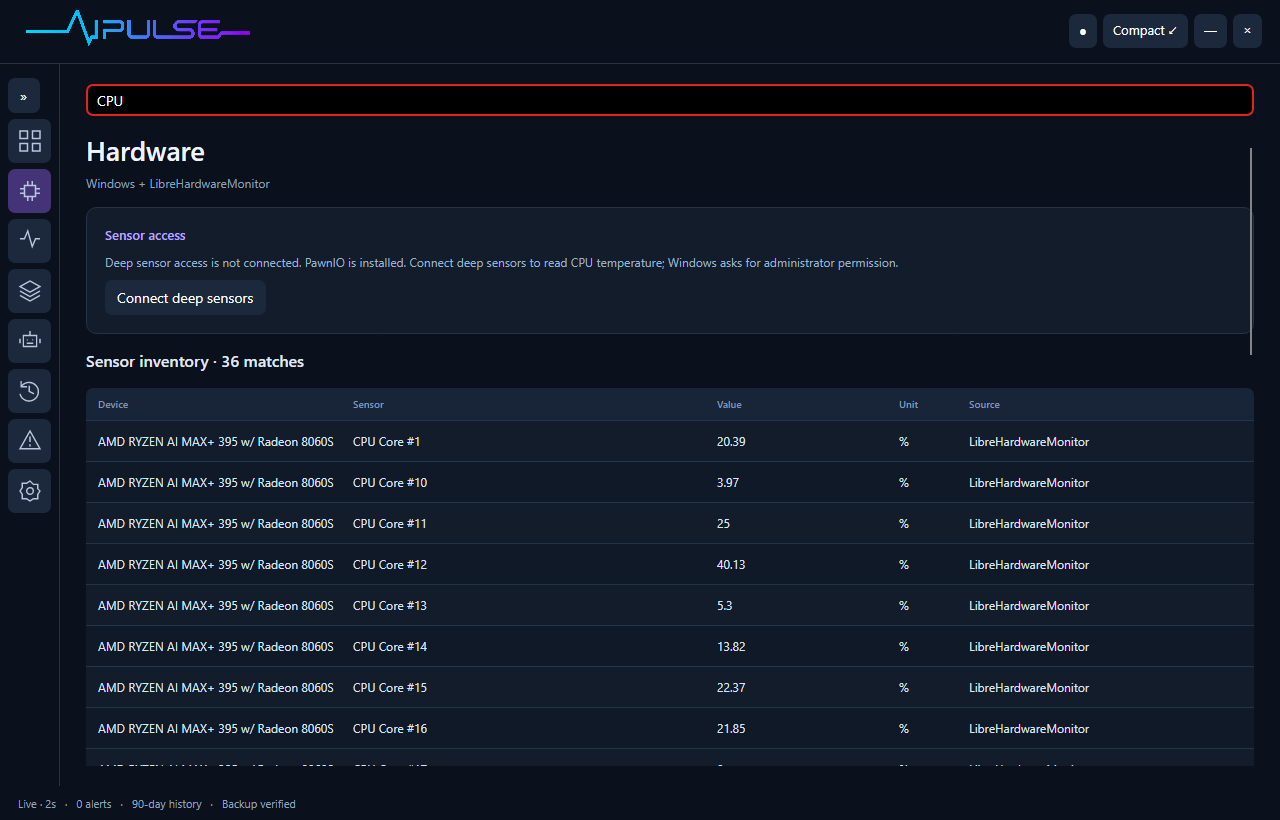
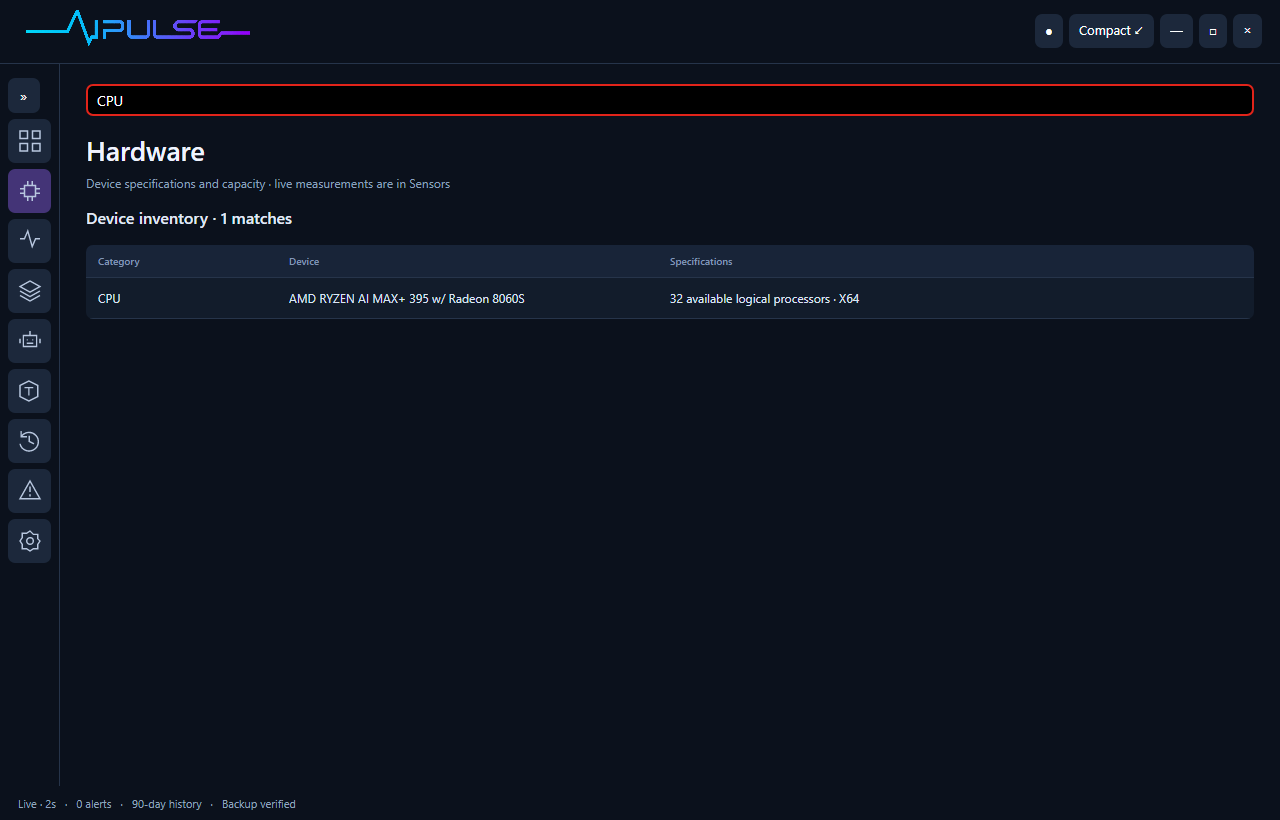
Separate hardware and sensors, add detailed token accounting dashboard

diff --git a/src/AiPulse/MainWindow.cs b/src/AiPulse/MainWindow.cs
@@ -119,23 +119,23 @@ public sealed partial class MainWindow : Window
                 bool collapsed=service.Settings.SidebarCollapsed;
                 var layout=new Grid{ColumnDefinitions=new ColumnDefinitions(collapsed?"60,*":"174,*")};var nav=new StackPanel{Spacing=6,Margin=new Thickness(8,14)};
                 var collapse=Btn(collapsed?"»":"«  Collapse menu");ToolTip.SetTip(collapse,collapsed?"Expand menu":"Collapse menu");Avalonia.Automation.AutomationProperties.SetName(collapse,collapsed?"Expand menu":"Collapse menu");collapse.Click+=(_,_)=>{service.Settings.SidebarCollapsed=!collapsed;Paths.Save(service.Settings);layoutPage=null;RenderBody();};nav.Children.Add(collapse);
-                foreach(var item in new[]{"Overview","Hardware","Sensors","Models","Agents","History","Alerts","Settings"})
+                foreach(var item in new[]{"Overview","Hardware","Sensors","Models","Agents","Token","History","Alerts","Settings"})
                 {
                     var contents=new StackPanel{Orientation=Orientation.Horizontal,Spacing=12};contents.Children.Add(NavIcon(item));if(!collapsed)contents.Children.Add(Text(item,13));
                     var b=new Button{Content=contents,HorizontalAlignment=HorizontalAlignment.Stretch,HorizontalContentAlignment=HorizontalAlignment.Left,Padding=new Thickness(12,12),Cursor=new Cursor(StandardCursorType.Hand)};
-                    ToolTip.SetTip(b,item);Avalonia.Automation.AutomationProperties.SetName(b,item);if(item==page)b.Background=Brush.Parse("#443477");b.Click+=(_,_)=>{page=item;scroller=null;RenderBody();};nav.Children.Add(b);
+                    ToolTip.SetTip(b,item);Avalonia.Automation.AutomationProperties.SetName(b,item);if(item==page)b.Background=Brush.Parse("#443477");b.Click+=(_,_)=>{if(page==item)return;page=item;scroller=null;layoutPage=null;RenderBody();};nav.Children.Add(b);
                 }
                 if(!collapsed){var host=Text("This PC\n"+(OperatingSystem.IsWindows()?"Windows":"Ubuntu / Linux")+" · v0.2.0",11,"#7f93af");host.Margin=new Thickness(12,26,0,0);nav.Children.Add(host);}
                 layout.Children.Add(new Border{Child=new ScrollViewer{Content=nav},BorderBrush=Line,BorderThickness=new Thickness(0,0,1,0)});
                 var main=new Grid{RowDefinitions=new RowDefinitions("Auto,*"),Margin=new Thickness(26,20)};
                 if(page is "Hardware" or "Sensors" or "Agents")
                 {
-                    var search=new TextBox{Text=Query,PlaceholderText=page=="Agents"?"Search source, model, session or status…":"Search device, sensor, source or process…",Margin=new Thickness(0,0,0,16)};
+                    var search=new TextBox{Text=Query,PlaceholderText=page=="Agents"?"Search source, model, session or status…":page=="Hardware"?"Search hardware, device or specification…":"Search device, sensor, unit, source or process…",Margin=new Thickness(0,0,0,16)};
                     Avalonia.Automation.AutomationProperties.SetName(search,"Search "+page);search.TextChanged+=(_,_)=>{searches[page]=search.Text??"";if(scroller!=null)scroller.Offset=default;RenderBody();};main.Children.Add(search);
                 }
                 scroller=new ScrollViewer{HorizontalScrollBarVisibility=ScrollBarVisibility.Disabled};Grid.SetRow(scroller,1);main.Children.Add(scroller);Grid.SetColumn(main,1);layout.Children.Add(main);body.Content=layout;layoutPage=page;
             }
-            scroller!.Content=page switch{"Overview"=>Overview(),"Hardware"=>HardwarePage(),"Sensors"=>HardwarePage(true),"Models"=>ModelsPage(),"Agents"=>AgentsPage(),"History"=>HistoryPage(),"Alerts"=>AlertsPage(),_=>SettingsPage()};scroller.Offset=offset;
+            scroller!.Content=page switch{"Overview"=>Overview(),"Hardware"=>HardwarePage(),"Sensors"=>SensorsPage(),"Models"=>ModelsPage(),"Agents"=>AgentsPage(),"Token"=>TokenPage(),"History"=>HistoryPage(),"Alerts"=>AlertsPage(),_=>SettingsPage()};scroller.Offset=offset;
         }finally{rebuilding=false;}
     }
     static Control NavIcon(string name)
@@ -146,6 +146,7 @@ public sealed partial class MainWindow : Window
             "Sensors"=>"M1,10 H5 L8,3 L12,17 L15,10 H19",
             "Models"=>"M10,1 L19,6 L10,11 L1,6 Z M1,10 L10,15 L19,10 M1,14 L10,19 L19,14",
             "Agents"=>"M4,6 H16 V16 H4 Z M10,2 V6 M7,10 H8 M12,10 H13 M7,13 H13 M1,9 V13 M19,9 V13",
+            "Token"=>"M10,1 L18,5 V15 L10,19 L2,15 V5 Z M6,7 H14 M10,7 V14",
             "History"=>"M3,6 A8,8 0 1 1 2,12 M3,1 V6 H8 M10,5 V10 L14,12",
             "Alerts"=>"M10,2 L19,18 H1 Z M10,7 V12 M10,14 V16",
             _=>"M10,1 L13,4 L17,4 L17,8 L19,10 L17,13 L17,17 L13,17 L10,19 L7,17 L3,17 L3,13 L1,10 L3,7 L3,3 L7,3 Z M10,7 A3,3 0 1 0 10,13 A3,3 0 1 0 10,7"};
@@ -221,14 +222,23 @@ public sealed partial class MainWindow : Window
         }
         return Card(content);
     }
-    Control HardwarePage(bool sensorsOnly=false)
+    Control HardwarePage()
     {
-        var stack=new StackPanel{Spacing=16};stack.Children.Add(Heading(sensorsOnly?"Sensors":"Hardware",service.Health));stack.Children.Add(SensorCard());
+        var stack=new StackPanel{Spacing=16};stack.Children.Add(Heading("Hardware","Device specifications and capacity · live measurements are in Sensors"));
+        var inventory=(service.Hardware?.Inventory??[]).Where(r=>Matches(r.Category,r.Name,r.Details)).ToList();
+        stack.Children.Add(Text("Device inventory · "+inventory.Count+" matches",16,null,true));
+        stack.Children.Add(Table(["Category","Device","Specifications"],inventory.Select(r=>new[]{r.Category,r.Name,r.Details}),"*,2*,3*"));
+        if(inventory.Count==0)stack.Children.Add(Text(service.Hardware?.Inventory.Count>0?"No hardware matches your search.":"Discovering hardware…",13,"#8da1bd"));
+        return stack;
+    }
+    Control SensorsPage()
+    {
+        var stack=new StackPanel{Spacing=16};stack.Children.Add(Heading("Sensors","Live temperatures, utilization, power, clocks, fans and resource activity · "+service.Health));stack.Children.Add(SensorCard());
         var readings=service.Readings.Where(r=>Matches(r.Device,r.Name,r.Source,r.Unit)).OrderBy(r=>r.Device).ThenBy(r=>r.Name).ToList();
         stack.Children.Add(Text("Sensor inventory · "+readings.Count+" matches",16,null,true));
         stack.Children.Add(Table(["Device","Sensor","Value","Unit","Source"],readings.Select(r=>new[]{r.Device,r.Name,r.Value?.ToString("0.##")??"Unavailable",r.Unit,r.Source}),"1.4*,2*,*,70,1.5*"));
         if(readings.Count==0)stack.Children.Add(Text("No sensors match your search.",13,"#8da1bd"));
-        if(!sensorsOnly){stack.Children.Add(Text("Top processes",16,null,true));stack.Children.Add(Table(["Process","PID","CPU (host %)","Working set MiB"],(service.Hardware?.Processes??[]).Where(p=>Matches(p.Name,p.Id.ToString())).Select(p=>new[]{p.Name,p.Id.ToString(),p.Cpu.ToString("0.0"),p.MemoryMiB.ToString("N0")}),"2*,*,*,*"));}return stack;
+        stack.Children.Add(Text("Live process activity",16,null,true));stack.Children.Add(Table(["Process","PID","CPU (host %)","Working set MiB"],(service.Hardware?.Processes??[]).Where(p=>Matches(p.Name,p.Id.ToString())).Select(p=>new[]{p.Name,p.Id.ToString(),p.Cpu.ToString("0.0"),p.MemoryMiB.ToString("N0")}),"2*,*,*,*"));return stack;
     }
     Control ModelsPage()
     {
@@ -312,7 +322,7 @@ public sealed partial class MainWindow : Window
     static Button Btn(string label)=>new(){Content=label,Cursor=new Cursor(StandardCursorType.Hand)};
     static Control Heading(string title,string sub){var s=new StackPanel{Spacing=7};s.Children.Add(Text(title,27,"#f0f4ff",true));s.Children.Add(Text(sub,12,"#8ba0bd"));return s;}
     static Border Card(Control child)=>new(){Child=child,Padding=new Thickness(18),Background=Panel,CornerRadius=new CornerRadius(10),BorderBrush=Line,BorderThickness=new Thickness(1)};
-    static Border Metric(string label,string value,string caption){var s=new StackPanel{Spacing=10};s.Children.Add(Text(label,10,"#a1b4ce"));s.Children.Add(Text(value,29,"#e9f0ff",true));s.Children.Add(Text(caption,10,"#7f93af"));return Card(s);}
+    static Border Metric(string label,string value,string caption){var s=new StackPanel{Spacing=10};s.Children.Add(Text(label,15,"#e1e9f7",true));s.Children.Add(Text(value,29,"#e9f0ff",true));s.Children.Add(Text(caption,10,"#7f93af"));return Card(s);}
     static Control Pair(string label,string value){var grid=new Grid{ColumnDefinitions=new ColumnDefinitions("*,Auto")};grid.Children.Add(Text(label,12,"#9eb1ca"));var v=Text(value,16,"#72d4e8",true);Grid.SetColumn(v,1);grid.Children.Add(v);return grid;}
     static Control Message(string title,string detail){var s=new StackPanel{Spacing=6};s.Children.Add(Text(title,13,"#bba3ff",true));s.Children.Add(Text(detail,12,"#9eb1ca"));return Card(s);}
     static Control Table(string[] headers,IEnumerable<string[]> data,string columns)

diff --git a/src/AiPulse/UiChecks.cs b/src/AiPulse/UiChecks.cs
@@ -39,16 +39,27 @@ public sealed partial class MainWindow
             await Click("Restore window");Check(WindowState==WindowState.Normal&&ButtonNamed("Maximize window")!=null,"Restore returns to a normal resizable window");
             await Click("Maximize window");await Click("Show compact dashboard");Check(service.Settings.Compact&&WindowState==WindowState.Normal&&!CanMaximize,"Compact mode leaves maximization and remains a small widget");
             await Click("Expand dashboard");
+            await Click("Overview");await Click("Overview");Check(scroller!=null&&page=="Overview","Clicking the current navigation tab repeatedly preserves its content");
+            Check(this.GetVisualDescendants().OfType<TextBlock>().First(t=>t.Text=="GPU TEMPERATURE").FontSize==15,"Overview metric headings match the other card headings");
             await Shot("overview-expanded");
             await Click("Collapse menu");Check(service.Settings.SidebarCollapsed&&ButtonNamed("Expand menu")!=null,"Sidebar collapses to named icon buttons");await Shot("sidebar-collapsed");
             await Click("Hardware");var search=this.GetVisualDescendants().OfType<TextBox>().Single();search.Focus();search.Text="not-a-real-sensor-xyz";await Task.Delay(150);Refresh();await Task.Delay(150);
             Check(ReferenceEquals(search,this.GetVisualDescendants().OfType<TextBox>().Single())&&search.IsFocused&&search.Text=="not-a-real-sensor-xyz","Search text and keyboard focus survive live refresh");
-            Check(this.GetVisualDescendants().OfType<TextBlock>().Any(t=>t.Text=="No sensors match your search."),"Unmatched sensor search has an explicit empty state");
-            search.Text="CPU";await Shot("hardware-search");
+            Check(this.GetVisualDescendants().OfType<TextBlock>().Any(t=>t.Text=="No hardware matches your search."),"Unmatched hardware search has an explicit empty state");
+            search.Text="CPU";await Click("Hardware");Check(!this.GetVisualDescendants().OfType<TextBlock>().Any(t=>t.Text=="Sensor access"||t.Text=="Live process activity"),"Hardware shows specifications without sensor readings or process activity");await Shot("hardware-search");
             await Click("Sensors");Check(this.GetVisualDescendants().OfType<TextBox>().Single().Text=="","Sensors has an independent search field");
+            await Click("Sensors");Check(this.GetVisualDescendants().OfType<TextBlock>().Any(t=>t.Text=="Sensor access")&&this.GetVisualDescendants().OfType<TextBlock>().Any(t=>t.Text=="Live process activity"),"Sensors owns live readings, permission status and process activity");
+            this.GetVisualDescendants().OfType<TextBox>().Single().Text="no-sensor-xyz";await Task.Delay(150);Refresh();await Task.Delay(150);Check(this.GetVisualDescendants().OfType<TextBlock>().Any(t=>t.Text=="No sensors match your search."),"Sensor search has an explicit empty state");
+            this.GetVisualDescendants().OfType<TextBox>().Single().Text="CPU";await Shot("sensors-search");
             await Click("Hardware");Check(this.GetVisualDescendants().OfType<TextBox>().Single().Text=="CPU","Search survives tab changes");
             await Click("Agents");Check(AutomationProperties.GetName(this.GetVisualDescendants().OfType<TextBox>().Single())=="Search Agents","Agents exposes searchable retained session metadata");
             await Click("Expand menu");Check(!service.Settings.SidebarCollapsed,"Sidebar expands back to icon and label navigation");
+            service.Store.PutUsage(new("fixture-tokens-ollama","Ollama","fixture-local-model","",J.Now,1200,300,200,0,0,null,null,"Completed"));
+            service.Store.PutUsage(new("fixture-tokens-codex","Codex","fixture-code-model","fixture-session",J.Now,900,200,600,0,80,null,null,"Reported"));
+            service.Store.PutUsage(new("fixture-tokens-claude","Claude Code","fixture-claude-model","fixture-session-2",J.Now,700,150,300,100,25,null,null,"Reported"));
+            await Click("Token");await Click("Token");Check(this.GetVisualDescendants().OfType<TextBlock>().Any(t=>t.Text=="On-prem models")&&this.GetVisualDescendants().OfType<TextBlock>().Any(t=>t.Text=="Tools & other usage"),"Token separates on-prem models from tools and other usage");
+            Check(this.GetVisualDescendants().OfType<TextBlock>().Any(t=>t.Text=="1,500")&&this.GetVisualDescendants().OfType<TextBlock>().Any(t=>t.Text=="1,950"),"Token displays exact independent totals for both sections");await Shot("token-split");
+            tokenDays=7;RenderBody();await Task.Delay(150);Check(tokenDays==7&&this.GetVisualDescendants().OfType<TextBlock>().Any(t=>t.Text=="Cache write¹"),"Token supports period selection and detailed cache/reasoning columns");
             await Click("History");Check(!this.GetVisualDescendants().OfType<Button>().Any(b=>Equals(b.Content,"365 days")),"Default 90-day history does not offer unavailable year ranges");
             service.Settings.RetentionDays=365;service.Store.RetentionDays=365;RenderBody();await Task.Delay(150);Check(this.GetVisualDescendants().OfType<Button>().Any(b=>Equals(b.Content,"365 days")),"One-year retention enables the 365-day history range");
             await Shot("history-year");
@@ -56,6 +67,6 @@ public sealed partial class MainWindow
             File.WriteAllLines(Path.Combine(Paths.Root,"ui-test-results.txt"),results);
         }
         catch(Exception e){results.Add("FAIL: "+e.Message);File.WriteAllLines(Path.Combine(Paths.Root,"ui-test-results.txt"),results);Environment.ExitCode=1;}
-        finally{Quit();}
+        finally{if(Application.Current is App app){app.Quitting=true;(app.ApplicationLifetime as Avalonia.Controls.ApplicationLifetimes.IClassicDesktopStyleApplicationLifetime)?.Shutdown(Environment.ExitCode);}}
     }
 }

diff --git a/src/AiPulse/TokenPage.cs b/src/AiPulse/TokenPage.cs
@@ -1,0 +1,57 @@
+using Avalonia;
+using Avalonia.Controls;
+using Avalonia.Controls.Primitives;
+using Avalonia.Layout;
+using Avalonia.Media;
+
+namespace AiPulse;
+
+public sealed partial class MainWindow
+{
+    int tokenDays=1;
+    bool tokenExportBusy;
+    string tokenNotice="";
+    Control TokenPage()
+    {
+        var stack=new StackPanel{Spacing=18};
+        stack.Children.Add(Heading("Token","Observed token usage · on-prem models and tools shown separately"));
+        tokenDays=Math.Min(tokenDays,service.Settings.RetentionDays);
+        var periods=new WrapPanel{Orientation=Orientation.Horizontal};
+        foreach(int days in new[]{1,7,30,90,180,365}.Where(d=>d<=service.Settings.RetentionDays).Append(service.Settings.RetentionDays).Distinct().Order())
+        {
+            var b=Btn(days==1?"Last 24 hours":$"{days} days");b.Margin=new Thickness(0,0,8,8);if(days==tokenDays)b.Background=Brush.Parse("#443477");
+            b.Click+=(_,_)=>{tokenDays=days;RenderBody();};periods.Children.Add(b);
+        }
+        stack.Children.Add(periods);
+        var rows=service.Store.TokenBreakdown(J.Now-tokenDays*86400L);
+        var onPrem=rows.Where(r=>r.OnPrem).ToList();var tools=rows.Where(r=>!r.OnPrem).ToList();
+        var summary=new Grid{ColumnDefinitions=new ColumnDefinitions("*,*")};
+        var local=Metric("On-prem · Ollama",onPrem.Sum(r=>r.Total).ToString("N0"),$"Input {onPrem.Sum(r=>r.Input):N0} · output {onPrem.Sum(r=>r.Output):N0}");summary.Children.Add(local);
+        var other=Metric("Tools & other usage",tools.Sum(r=>r.Total).ToString("N0"),$"Input {tools.Sum(r=>r.Input):N0} · output {tools.Sum(r=>r.Output):N0}");other.Margin=new Thickness(12,0,0,0);Grid.SetColumn(other,1);summary.Children.Add(other);stack.Children.Add(summary);
+        stack.Children.Add(TokenSection("On-prem models",onPrem,"Ollama usage observed through the AIPULSE gateway. Direct Ollama calls and discovery-only remote endpoints are not counted."));
+        stack.Children.Add(TokenSection("Tools & other usage",tools,"Codex and Claude Code usage reported in readable local session files. Tool names identify the usage source; they do not prove where the model is hosted."));
+        stack.Children.Add(Message("Reading the split","Input includes cache reads and cache writes. Reasoning is included in output. Total = input + output; do not add the subset columns again. Zero means no tokens recorded for that field, which can also mean the provider did not report it. Records are usage events, not a request count."));
+        stack.Children.Add(Message("Coverage","On-prem and tool totals are independent observations: a tool using a monitored Ollama backend may appear in both, so no combined total is presented. No API billing or desktop subscription allowance is inferred. Claude desktop/Chat/Cowork usage may not be available. Remote k3s discovery alone does not provide token accounting."));
+        var export=Btn(tokenExportBusy?"Exporting…":"Export selected period CSV");export.IsEnabled=!tokenExportBusy;
+        export.Click+=async(_,_)=>
+        {
+            tokenExportBusy=true;long since=J.Now-tokenDays*86400L;RenderBody();
+            try{var file=System.IO.Path.Combine(Paths.Root,"exports","tokens-"+DateTime.Now.ToString("yyyyMMdd-HHmmss")+".csv");await Task.Run(()=>service.Store.ExportUsage(file,since));tokenNotice="Saved "+file;}
+            catch(Exception e){Paths.Log("token-export",e);tokenNotice="Export failed. Check folder access and available disk space.";}
+            finally{tokenExportBusy=false;if(page=="Token")RenderBody();}
+        };
+        stack.Children.Add(export);if(tokenNotice!="")stack.Children.Add(Text(tokenNotice,12,"#59dfae"));return stack;
+    }
+    static Control TokenSection(string title,List<TokenBreakdown> rows,string coverage)
+    {
+        var section=new StackPanel{Spacing=12};section.Children.Add(Text(title,16,null,true));section.Children.Add(Text(coverage,12,"#9eb1ca"));
+        if(rows.Count==0){section.Children.Add(Text("No observed usage in this period.",13,"#8da1bd"));return Card(section);}
+        var totals=new StackPanel{Spacing=7};
+        totals.Children.Add(Text($"Input {rows.Sum(r=>r.Input):N0} · uncached {rows.Sum(r=>r.Uncached):N0} · cache read {rows.Sum(r=>r.Cached):N0} · cache write {rows.Sum(r=>r.CacheWrite):N0}",13));
+        totals.Children.Add(Text($"Output {rows.Sum(r=>r.Output):N0} · reasoning {rows.Sum(r=>r.Reasoning):N0} included · {rows.Sum(r=>r.Records):N0} usage records",13));section.Children.Add(totals);
+        var table=Table(["Source / model","Input","Output","Cache read¹","Cache write¹","Reasoning²","Total"],rows.Select(r=>new[]{r.Source+"\n"+(string.IsNullOrWhiteSpace(r.Model)?"Model not reported":r.Model),r.Input.ToString("N0"),r.Output.ToString("N0"),r.Cached.ToString("N0"),r.CacheWrite.ToString("N0"),r.Reasoning.ToString("N0"),r.Total.ToString("N0")}),"2.2*,*,*,*,*,*,*");
+        table.MinWidth=900;section.Children.Add(new ScrollViewer{Content=table,HorizontalScrollBarVisibility=ScrollBarVisibility.Auto,VerticalScrollBarVisibility=ScrollBarVisibility.Disabled});
+        if(rows.Sum(r=>r.Incomplete)>0)section.Children.Add(Text($"{rows.Sum(r=>r.Incomplete):N0} records have incomplete or unavailable usage. Any reported tokens are included; this is not a complete consumption total.",12,"#e8b65f"));
+        return Card(section);
+    }
+}

diff --git a/src/AiPulse/SelfTests.cs b/src/AiPulse/SelfTests.cs
@@ -22,6 +22,16 @@ public static class SelfTests
                 var backup=db.Backup(Path.Combine(root,"backups"));Storage.VerifyBackup(backup);File.Copy(backup,Path.Combine(root,"restore.db"));using var restored=new Storage(Path.Combine(root,"restore.db"));Check(restored.Totals(now-1).Input==265,"Verified snapshot restores exact token totals");
                 for(int i=0;i<20001;i++)db.PutUsage(new("bulk-"+i,"Test","=unsafe-formula","bulk",now,1,0,0,0,0,null,null,"Completed"));
                 var export=Path.Combine(root,"export.csv");db.ExportUsage(export,now-1);var lines=File.ReadLines(export);Check(lines.Count()==20005&&lines.Any(l=>l.Contains("'=unsafe-formula")),"CSV exports beyond 20,000 records and escapes spreadsheet formulas");
+                var split=db.TokenBreakdown(now-1);Check(split.Sum(r=>r.Input)==db.Totals(now-1).Input&&split.Sum(r=>r.Records)==20004&&split.Single(r=>r.Source=="Test").Input==20001,"Token aggregates cover all records beyond the 20,000-row display limit");
+                var local=split.Single(r=>r.OnPrem);var claude=split.Single(r=>r.Source=="Claude Code");Check(local.Total==120&&claude.Input==65&&claude.Uncached==10&&claude.Cached==50&&claude.CacheWrite==5&&claude.Total==77,"On-prem and tool splits preserve cache subsets without double-counting totals");
+            }
+            using(var tokens=new Storage(Path.Combine(root,"tokens.db")))
+            {
+                long now=J.Now;tokens.PutUsage(new("old-token","Ollama","model","",now-3*86400,100,10,0,0,0,null,null,"Completed"));
+                tokens.PutUsage(new("partial-token","Ollama","model","",now,5,2,0,0,0,null,null,"Cancelled · usage incomplete"));
+                tokens.PutUsage(new("tool-token","Codex","model","session",now,10,8,3,0,4,null,null,"Reported"));
+                var day=tokens.TokenBreakdown(now-86400);Check(day.Single(r=>r.OnPrem).Total==7&&day.Single(r=>r.OnPrem).Incomplete==1&&tokens.TokenBreakdown(now-7*86400).Single(r=>r.OnPrem).Total==117,"Token ranges separate recent history and flag incomplete observations");
+                Check(day.Single(r=>!r.OnPrem).Reasoning==4&&day.Single(r=>!r.OnPrem).Total==18,"Reasoning stays a subset of output and same model names remain separated by source");
             }
             Check(!System.Text.Encoding.UTF8.GetString(File.ReadAllBytes(Path.Combine(root,"test.db"))).Contains("SECRET_PROMPT_SHOULD_NOT_PERSIST"),"Prompt bodies not persisted");
             using(var year=new Storage(Path.Combine(root,"year.db"),365))

diff --git a/src/AiPulse/Storage.cs b/src/AiPulse/Storage.cs
@@ -78,6 +78,19 @@ public sealed class Storage : IDisposable
     {
         lock(gate){using var c=Command("SELECT coalesce(sum(input),0),coalesce(sum(output),0),coalesce(sum(cached),0),count(*) FROM usage WHERE time>=@p0",since);using var r=c.ExecuteReader();r.Read();return(r.GetInt64(0),r.GetInt64(1),r.GetInt64(2),r.GetInt64(3));}
     }
+    public List<TokenBreakdown> TokenBreakdown(long since)
+    {
+        // Aggregate in SQLite over the entire selected range, without UsageSince's display cap.
+        lock(gate){using var c=Command("""
+            SELECT source,model,sum(input),sum(output),sum(cached),sum(cache_write),sum(reasoning),
+                   sum(max(0,input-cached-cache_write)),count(*),
+                   sum(CASE WHEN status IN ('Completed','Reported') THEN 0 ELSE 1 END)
+            FROM usage WHERE time>=@p0 GROUP BY source,model ORDER BY sum(input+output) DESC,source,model
+            """,since);
+            using var r=c.ExecuteReader();var rows=new List<TokenBreakdown>();
+            while(r.Read())rows.Add(new(r.GetString(0),r.GetString(1),r.GetInt64(2),r.GetInt64(3),r.GetInt64(4),r.GetInt64(5),r.GetInt64(6),r.GetInt64(7),r.GetInt64(8),r.GetInt64(9)));
+            return rows;}
+    }
     public void ExportUsage(string file,long since)
     {
         // Stream the full retained range without the UI's row cap or an unbounded in-memory list.

diff --git a/src/AiPulse/HardwareInventory.cs b/src/AiPulse/HardwareInventory.cs
@@ -1,0 +1,25 @@
+using System.Net.NetworkInformation;
+using System.Runtime.InteropServices;
+
+namespace AiPulse;
+
+public record HardwareItem(string Category,string Name,string Details);
+
+public static class HardwareInventory
+{
+    public static List<HardwareItem> Read(string cpu,string gpu,double? memoryGiB)
+    {
+        var rows=new List<HardwareItem>{
+            new("CPU",cpu,$"{Environment.ProcessorCount} available logical processors · {RuntimeInformation.OSArchitecture}"),
+            new("GPU",gpu,"Graphics / compute adapter · allocations and utilization are in Sensors"),
+            new("Memory","System RAM",memoryGiB.HasValue?$"{memoryGiB:0.0} GiB usable physical capacity":"Capacity unavailable"),
+            new("Platform",RuntimeInformation.OSDescription,RuntimeInformation.OSArchitecture+" operating system")};
+        foreach(var disk in DriveInfo.GetDrives())
+        {
+            try{if(disk.IsReady&&disk.DriveType==DriveType.Fixed)rows.Add(new("Storage volume",disk.Name,$"{disk.TotalSize/1073741824.0:0.0} GiB capacity · {disk.DriveFormat}"));}catch{}
+        }
+        foreach(var nic in NetworkInterface.GetAllNetworkInterfaces().Where(n=>n.NetworkInterfaceType!=NetworkInterfaceType.Loopback))
+            rows.Add(new("Network adapter",nic.Name,nic.Description+" · "+nic.NetworkInterfaceType));
+        return rows;
+    }
+}

diff --git a/src/AiPulse/Hardware.cs b/src/AiPulse/Hardware.cs
@@ -12,6 +12,8 @@ public sealed class Hardware : IDisposable
     public string CpuName {get;private set;}="CPU";
     public string GpuName {get;private set;}="GPU";
     public List<ProcessInfo> Processes {get;private set;}=[];
+    public List<HardwareItem> Inventory {get;private set;}=[];
+    DateTime nextInventory=DateTime.MinValue;
     ulong lastIdle,lastKernel,lastUser;
     long linuxTotal,linuxIdle;
     DateTime lastNetwork=DateTime.UtcNow, lastProcesses=DateTime.UtcNow;
@@ -59,6 +61,7 @@ public sealed class Hardware : IDisposable
         }
         lastNetwork=DateTime.UtcNow;Add("network.rx","Download","Network","MiB/s",has?rx/1048576:null);Add("network.tx","Upload","Network","MiB/s",has?tx/1048576:null);
         if((DateTime.UtcNow-lastProcesses).TotalSeconds>=5)SampleProcesses();
+        if(DateTime.UtcNow>=nextInventory){Inventory=HardwareInventory.Read(CpuName,GpuName,list.FirstOrDefault(r=>r.Id=="ram.total")?.Value);nextInventory=DateTime.UtcNow.AddMinutes(1);}
         return list;
     }
     void AddStandardAliases(List<Reading> rows)

diff --git a/src/AiPulse/Core.cs b/src/AiPulse/Core.cs
@@ -12,6 +12,11 @@ public record SessionInfo(string Id, string Source, string Model, string State, 
 public record MetricPoint(long Time, double Average, double Minimum, double Maximum);
 public record AlertInfo(string Key, string Title, string Detail, long Time, bool Active);
 public record Endpoint(string Name, string Url);
+public record TokenBreakdown(string Source,string Model,long Input,long Output,long Cached,long CacheWrite,long Reasoning,long Uncached,long Records,long Incomplete)
+{
+    public bool OnPrem=>Source=="Ollama";
+    public long Total=>Input+Output;
+}
 
 public sealed class AppSettings
 {

diff --git a/docs/USER-GUIDE.md b/docs/USER-GUIDE.md
@@ -34,13 +34,19 @@ Loaded models are different from agent sessions. Agent usage remains available o
 
 ![Overview](images/overview.png)
 
-The headline cards show GPU load, GPU core temperature availability, system memory and observed tokens in the last 24 hours. The GPU chart plots minute-average samples. Unified-memory figures remain separate because they overlap. The connection panel explains token coverage.
+The headline cards show GPU load, GPU core temperature availability, system memory and observed tokens in the last 24 hours. Their headings use the same 15-point semibold style as the other cards. The GPU chart plots minute-average samples. Unified-memory figures remain separate because they overlap. The connection panel explains token coverage.
 
 ## Hardware
 
-![Hardware search and sensor access](images/hardware-search.png)
+![Hardware specifications search](images/hardware-search.png)
 
-Use the persistent search field in **Hardware** or **Sensors** to filter by device, sensor, unit or source. Hardware also filters its top-process list by name or PID. Search keeps its focus during live updates and remembers its text when you change tabs. No-match results are explicit.
+Hardware is the specification inventory: CPU identity and available logical processors, GPU identity, usable physical RAM capacity, storage-volume capacities/filesystems, platform architecture and network-adapter identities. It has no temperatures, utilization, fan readings or process activity. Search filters category, device and specifications. Capacity means the OS-visible amount, not a promise of the marketed installed capacity; logical processors are not physical-core counts.
+
+## Sensors
+
+![Live sensor search](images/sensors-search.png)
+
+Sensors owns live measurements and sensor access. Its search filters device, sensor, unit, source and process names/PIDs. Hardware, Sensors and Agents each preserve their own search text and keyboard focus during live refreshes. No-match results are explicit.
 
 Browse each exposed sensor with device, value, unit and source. This includes per-core load, clocks, temperatures, powers, fans and storage readings when supported. Top processes show CPU as a percentage of total host capacity and working-set memory. Working sets can overlap shared pages and should not be summed as exact physical usage.
 
@@ -61,6 +67,23 @@ Search by source, model, session ID or recorded status. Search covers all sessio
 Supported local Codex and Claude Code session records supply model identity, token categories and last activity. This importer follows source formats and may need updates when those tools change. It reads metadata; it does not persist conversation contents. Claude Desktop Chat/Cowork coverage is not implied by Claude Code support.
 
 “Working” is based on an observed Codex lifecycle event. “Recent activity” is weaker evidence. After inactivity, unresolved sessions show **Quiet / unknown**. A running process is not proof that an agent is generating.
+
+## Token
+
+![Separate on-prem and tool token usage](images/token-split.png)
+
+This screenshot uses explicitly synthetic token records for layout verification; it is not an inference benchmark or bill.
+
+Choose the last 24 hours or 7/30/90/180/365 days, limited by your retention setting. The page shows two independent sections:
+
+- **On-prem models:** Ollama token usage observed through the AIPULSE gateway, grouped by model. Direct requests to port 11434 and remote endpoints used only for discovery are outside this coverage.
+- **Tools & other usage:** Codex and Claude Code metadata from supported local session files, grouped by source and model. A source identifies the tool, not the model's hosting location. Claude Desktop Chat/Cowork usage may not be available.
+
+Each section shows exact input/output totals and a model table containing input, output, cache reads, cache writes, reasoning and total tokens. The input summary also shows uncached input. Cache reads and writes are **subsets of input**; reasoning is a **subset of output**. Total is input plus output. Zero means no recorded tokens in that field, which may reflect a provider that does not expose it. Incomplete/failed observations are counted and explicitly flagged; any reported partial counts remain included.
+
+Usage records are events, not necessarily individual requests. A tool routed through the Ollama gateway may produce both tool and on-prem observations, so the page does not add the two sections into a combined consumption total. It does not infer cloud invoices, subscription allowances or dollar costs.
+
+All aggregates cover the entire selected period, including more than 20,000 records. **Export selected period CSV** exports the same time range and all token categories to the local exports folder. Narrow windows let the detailed tables scroll horizontally. Remote k3s discovery alone does not supply token counts; an instrumented runtime or gateway is still required.
 
 ## History and alerts
 

diff --git a/docs/VALIDATION.md b/docs/VALIDATION.md
@@ -3,11 +3,14 @@
 ## Local Windows checks
 
 - The updated self-contained executable runs on the Minisforum Ryzen AI Max+ 395 / Radeon 8060S machine.
-- 17 data checks cover accounting, privacy, 90/365-day retention, year-old backup restoration, search before the 100-session limit, replay on increased retention, reduced-retention cleanup and invalid sensor values.
-- UI checks cover both compact orientations, full-size expanded branding, collapsible navigation, persistent search focus/text, no-match states and the one-year selector.
+- 21 data checks cover accounting, privacy, 90/365-day retention, year-old backup restoration, search before the 100-session limit, replay on increased retention, reduced-retention cleanup and invalid sensor values. Token checks cover more than 20,000 records, source separation, cache/reasoning subsets, incomplete records and time ranges.
+- 41 UI checks cover both compact orientations, full-size expanded branding, collapsible navigation, persistent search focus/text, no-match states, the one-year selector, larger overview headings, separate Hardware/Sensors contents and exact Token page totals.
 - Expanded Maximize/Restore and returning from a maximized dashboard to compact mode pass the real-window checks. Ubuntu CI runs these with Openbox inside Xvfb, in addition to Linux CPU/RAM and package installation tests.
 - A loopback Ollama protocol fixture exposes 12 synthetic models: every row is rendered, the dropdown height is bounded and its scroll position survives refresh. These fixture models do not run inference.
 - Native Windows pointer input moved the expanded window from the body by 50 pixels horizontally and 30 vertically. Search typing preserved focus through live refreshes.
+- Native double-clicks in blank header space maximize and restore the dashboard. Header replacement is queued until pointer processing finishes.
+- A captured NullReferenceException traced the earlier crash to clicking an already-selected navigation tab: the handler cleared the scroll container without rebuilding the unchanged page. The handler now preserves the current page and explicitly rebuilds on a page change. Repeated-click regression checks pass. UI failures now preserve a nonzero process exit code, and CI independently rejects failed result lines.
+- The Token screenshot uses three clearly named synthetic usage records. Aggregation tests verify exact 1,500 on-prem and 1,950 tool tokens without adding cache/reasoning subsets twice. This fixture is not an inference benchmark.
 - Icon generation checks corner alpha and embeds seven Windows icon resolutions.
 
 The Windows 0.2.0 installer upgraded the existing installation successfully. A verified pre-upgrade snapshot preserved 1,570 usage records; the existing data directory and 90-day preference were retained. The installed executable reports version 0.2.0.

diff --git a/docs/DEVELOPMENT.md b/docs/DEVELOPMENT.md
@@ -44,6 +44,8 @@ Use Inno Setup to compile `installer/windows.iss`. Run `python3 scripts/package_
 
 `--self-test` checks deduplication, provider accounting, retention and a real SQLite backup/restore. `--diagnose` writes hardware readings to `diagnostics.json` and exits. `--collect` runs collection for a bounded duration without opening a window. See the dedicated Ollama test guide for real inference traffic.
 
+For an intermittent desktop crash, add `--diagnostic-stack` to retain the exception's call stack in the local `startup-error.txt`. This is opt-in; review the file before sharing because stack traces can contain local source paths. It does not enable remote reporting.
+
 For UI captures, `--capture` saves the rendered window after startup. `--expanded` opens the full dashboard and `--page Models` selects a page. `--exit-after N` supports bounded GUI smoke testing; with capture enabled, the countdown follows the capture delay. Screenshots must remain clearly identified as live captures or test fixtures.
 
 ## Release checklist
@@ -61,4 +63,4 @@ The GitHub workflow builds packages and runs Linux tests; virtual graphics do no
 
 `--ui-test --data-dir <isolated test folder>` runs real Avalonia controls and saves screenshots/results. Never point it at your personal data directory: it changes test settings. `tests/ui_fixture.py` provides 12 explicitly synthetic Ollama models on loopback port 11436. Configure the isolated app's `OllamaUrl` accordingly and add `--expect-models 12` to verify discovery, every model row, bounded scrolling and scroll preservation. This is a UI/protocol simulation, not a model-performance benchmark.
 
-Both platform CI jobs run the checks. They also cover both compact orientations, restored full-size header, sidebar collapse/expand, search focus across refresh, independent tab searches, empty results and the one-year history selector. Native pointer dragging is separately checked on Windows. Real Ollama inference uses the separate smoke test.
+Both platform CI jobs run the checks. They also cover both compact orientations, restored full-size header, Maximize/Restore, returning from maximized to compact, preserving the active header during input, sidebar collapse/expand, search focus across refresh, independent tab searches, empty results and the one-year history selector. Native pointer dragging and blank-header double-click are separately checked on Windows. Real Ollama inference uses the separate smoke test. Start with a fresh test settings file; the UI checks intentionally finish with 365-day retention.

diff --git a/README.md b/README.md
@@ -34,8 +34,10 @@ Read the [step-by-step installation guide](docs/INSTALLATION.md), including sens
 
 - **Keep only critical readings visible.** The 560 × 132 horizontal widget and 260 × 300 vertical widget have a loaded-model dropdown. Open it to see every model, host, state, memory and last observed decode rate; large lists scroll within a bounded panel.
 - **Watch the machine.** GPU load and memory, CPU load, physical RAM, network transfer, disk capacity, process usage and exposed temperature/power/fan/clock sensors.
+- **Separate specifications from measurements.** Hardware lists CPU/GPU, memory capacity, volumes and network adapters. Sensors shows live readings, process activity and sensor-access status; each has its own search.
 - **Measure Ollama requests.** The optional local gateway observes input/output/cache tokens, decode tokens per second, request duration, streaming completion and errors.
 - **Track supported agent sessions.** Import Codex and Claude Code usage metadata from local session files. Repeated records are deduplicated. Prompts and replies are not saved.
+- **Inspect the Token page.** Separate on-prem Ollama and tool usage, with exact counts by source/model, input/output/cache/reasoning splits, selectable history and CSV export. Incomplete observations and coverage gaps are explicit.
 - **Review history.** Seven days of detailed readings and configurable 7–365-day summaries, usage records and CSV exports. The shipping default remains 90 days.
 - **Protect the data.** Verified SQLite snapshots, seven daily restore points plus weekly snapshots covering the configured retention period (13 weeks by default; 53 for a year), and an in-app restore flow that preserves the previous database.
 - **Connect remote Ollama servers.** Add named endpoints, including an Ollama service you later host on k3s. Full Kubernetes node/pod monitoring is a [planned extension](docs/K3S.md).
